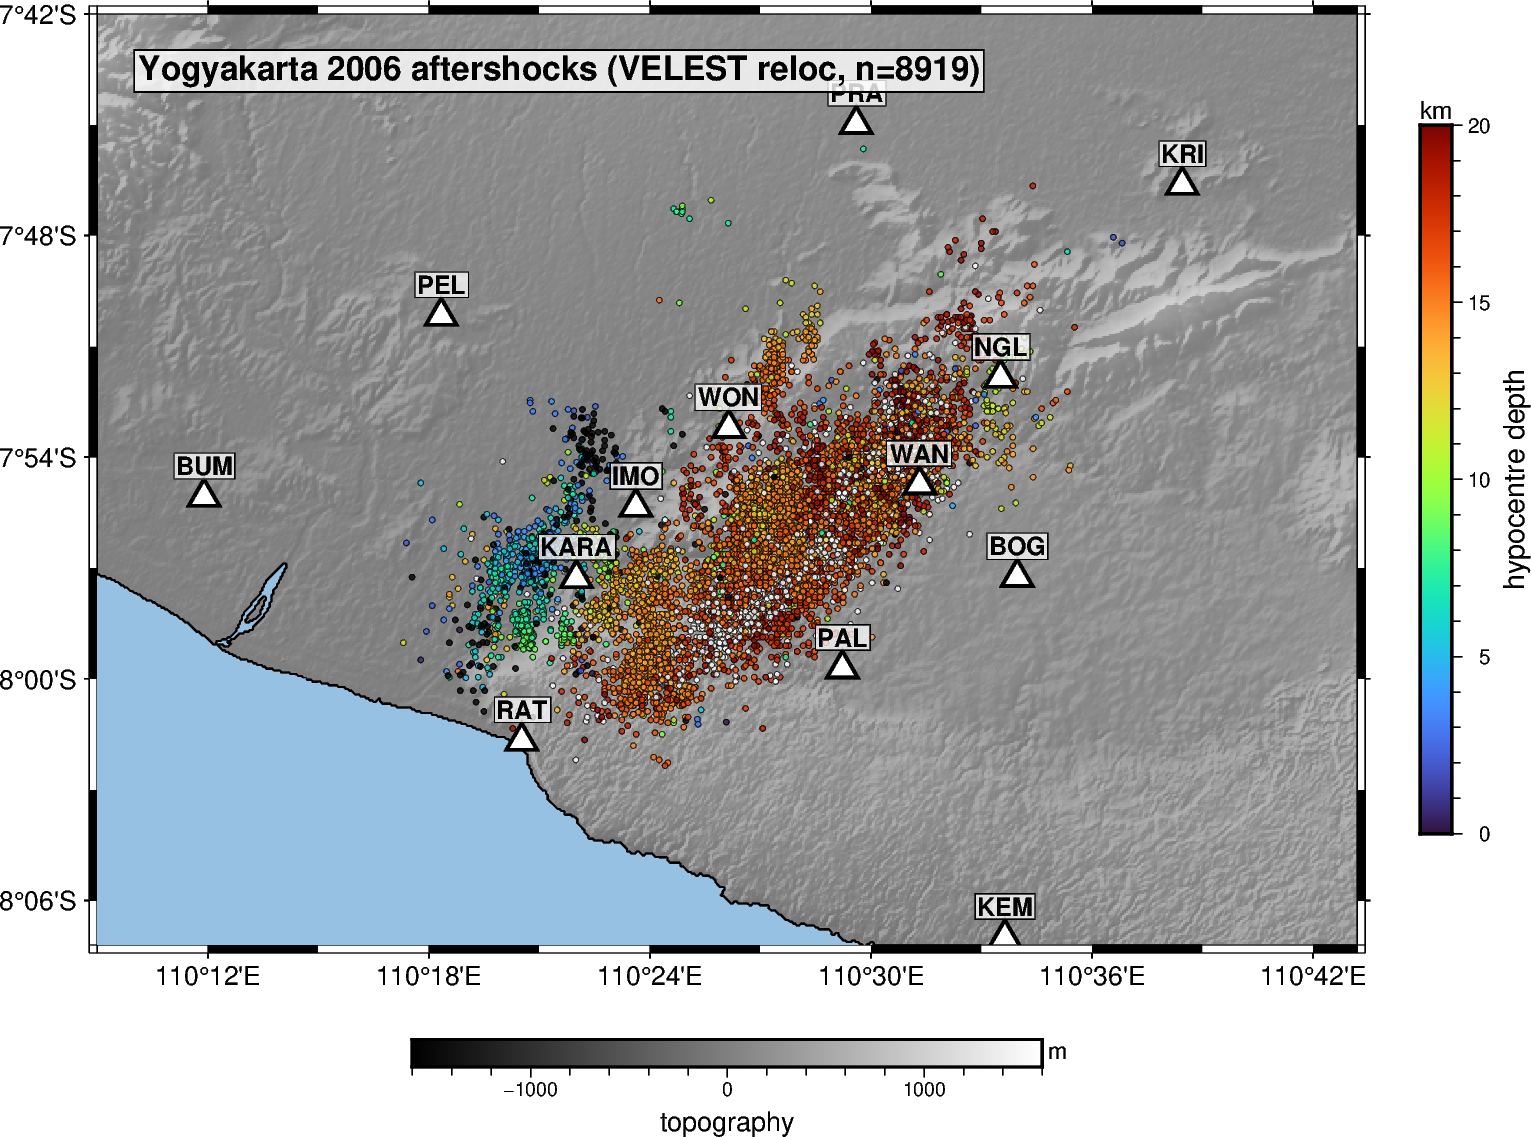
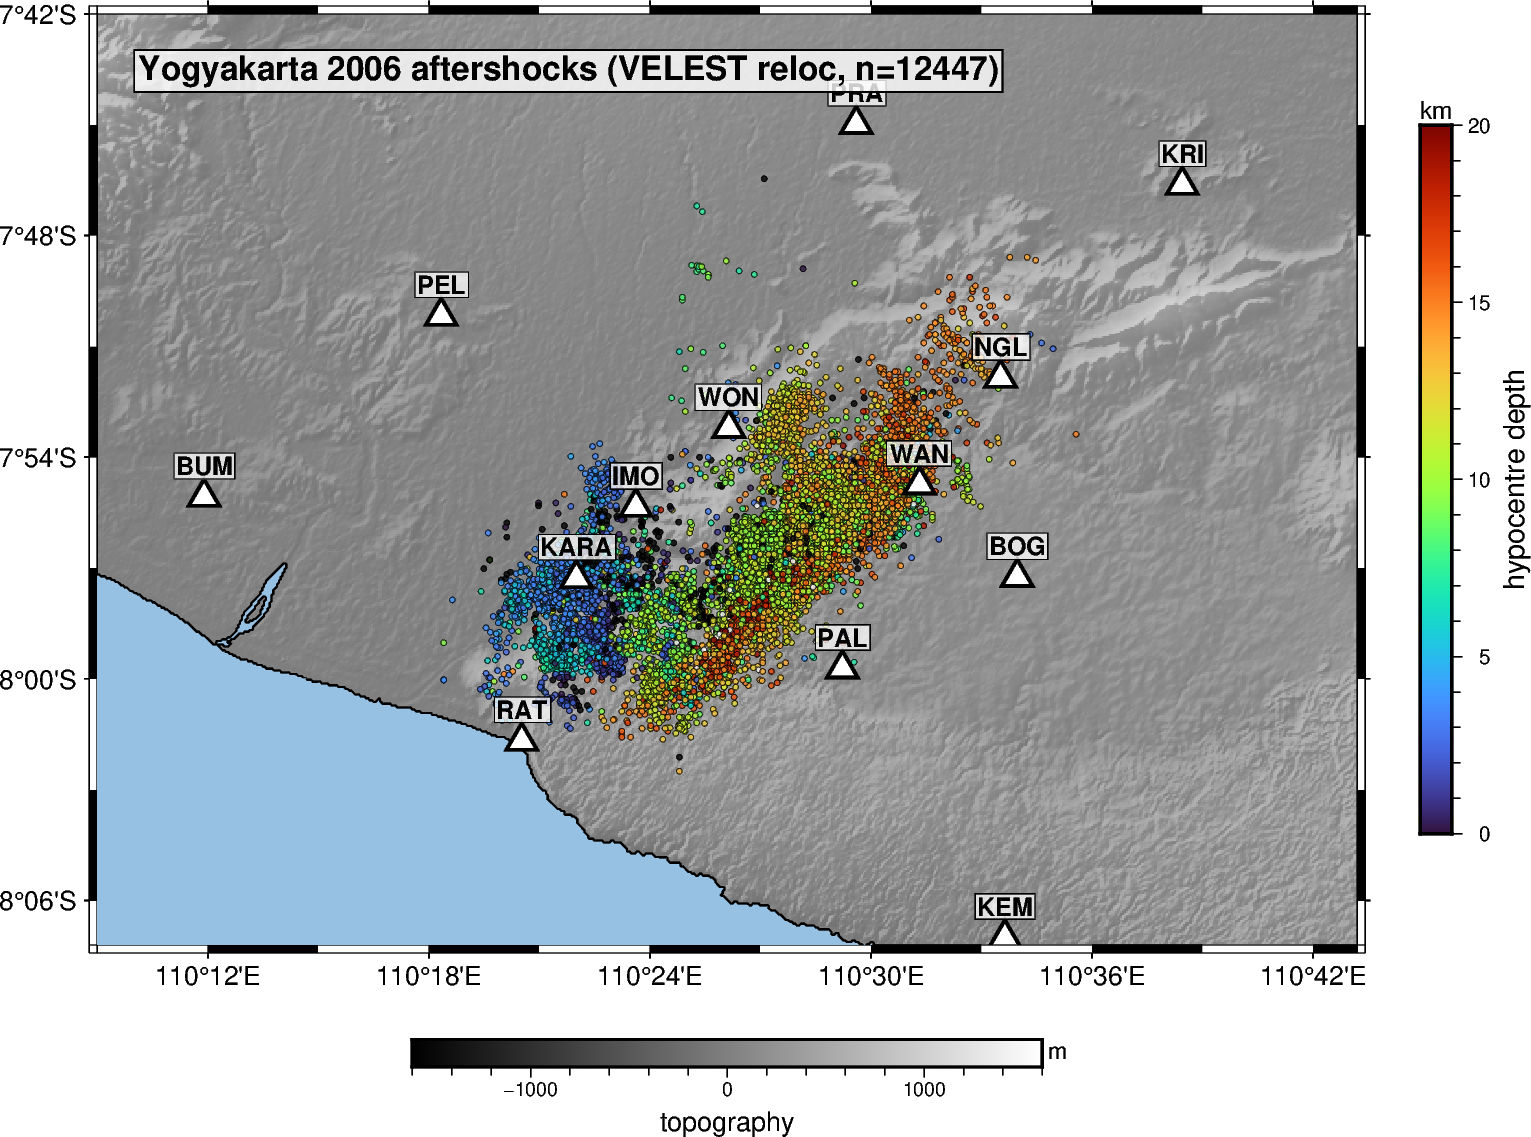
Refine VELEST model (fixed sediment+deep, station corr geology); re-relocate: depths 15->10.5km

Changed region(s): [[0.2763, 0.2155, 0.7061, 0.6772], [0.5833, 0.0308, 0.6754, 0.0923], [0.4298, 0.2155, 0.4605, 0.2463]]

diff --git a/eqt/scripts/interpret_stacorr.py b/eqt/scripts/interpret_stacorr.py
@@ -1,0 +1,72 @@
+#!/usr/bin/env python3
+"""Interpret VELEST station corrections in terms of the Opak-fault geology:
+western stations sit on Merapi sediment (slow, +delay), eastern on limestone
+(fast, -delay). Plots corrections vs longitude and quantifies the W-E contrast.
+"""
+import os, re, json
+import numpy as np, pandas as pd
+import matplotlib; matplotlib.use("Agg"); import matplotlib.pyplot as plt
+
+ROOT = os.path.abspath(os.path.join(os.path.dirname(__file__), ".."))
+OUT = f"{ROOT}/velest/yogya.OUT"
+OPAK_LON = 110.43          # approx Opak-fault longitude in the study area
+
+# our per-period code -> official XN name
+TF2XN = {"TF12":"WON","TF13":"PEL","TF14":"RAT","TF16":"WAN","TF18":"BUM",
+         "TF19":"PAL","TF15a":"NGL","TF10a":"PRA","TF10b":"IMO","TF17":"BOG",
+         "TF11b":"KRI","TF07b":"KEM","TF09b":"KARA"}
+
+def station_lons():
+    per = json.load(open(f"{ROOT}/config/stations_periods.json"))
+    import string
+    lon = {}
+    for code, info in per.items():
+        sites = info.get("sites", [])
+        if len(sites) <= 1:
+            if sites: lon[code] = sites[0]["lon"]
+        else:
+            for suf, s in zip(string.ascii_lowercase, sites):
+                lon[f"{code}{suf}"] = s["lon"]
+    return lon
+
+def main():
+    lines = open(OUT).read().splitlines()
+    i = max(i for i,l in enumerate(lines) if "Adjusted station corrections:" in l)
+    cor = {}
+    for l in lines[i+2:i+8]:
+        t = l.split(); k = 0
+        while k+1 < len(t):
+            try: cor[t[k]] = float(t[k+1]); k += 3
+            except (ValueError, IndexError): break
+    lon = station_lons()
+    rows = []
+    for code, c in cor.items():
+        if code not in lon: continue
+        rows.append({"code": code, "xn": TF2XN.get(code, code), "lon": lon[code],
+                     "stcor": c, "side": "West (sediment)" if lon[code] < OPAK_LON else "East (limestone)"})
+    d = pd.DataFrame(rows).sort_values("lon")
+    w = d[d.side.str.startswith("West")]; e = d[d.side.str.startswith("East")]
+    print("Station P-corrections vs Opak fault:")
+    for _, r in d.iterrows():
+        print(f"  {r.xn:5} ({r.code:6}) lon {r.lon:.3f}  stcor {r.stcor:+.2f} s  [{r.side}]")
+    print(f"\nWest (sediment) mean: {w.stcor.mean():+.2f} s ; East (limestone) mean: {e.stcor.mean():+.2f} s")
+    print(f"W-E contrast: {w.stcor.mean()-e.stcor.mean():+.2f} s")
+
+    fig, ax = plt.subplots(figsize=(11, 6))
+    ax.axvline(OPAK_LON, color="k", ls="--", lw=1.5, label="Opak fault (~110.43°E)")
+    ax.scatter(w.lon, w.stcor, s=140, c="tab:blue", edgecolor="k", zorder=5, label="West: Merapi sediment")
+    ax.scatter(e.lon, e.stcor, s=140, c="tab:red", edgecolor="k", zorder=5, label="East: limestone")
+    for _, r in d.iterrows():
+        ax.annotate(r.xn, (r.lon, r.stcor), xytext=(0, 8), textcoords="offset points",
+                    ha="center", fontsize=9, fontweight="bold")
+    ax.axhline(0, color="gray", lw=0.8)
+    ax.set_xlabel("Longitude (°E)"); ax.set_ylabel("P station correction (s)")
+    ax.set_title("VELEST station corrections vs Opak fault\n"
+                 "West (sediment) = slow / +delay ; East (limestone) = fast / −delay")
+    ax.legend(); ax.grid(alpha=0.3)
+    out = f"{ROOT}/figures/station_corrections_opak.png"
+    plt.tight_layout(); plt.savefig(out, dpi=120)
+    print("wrote", out)
+
+if __name__ == "__main__":
+    main()

diff --git a/eqt/scripts/gen_velest.py b/eqt/scripts/gen_velest.py
@@ -16,11 +16,23 @@ import numpy as np
 ROOT = os.path.abspath(os.path.join(os.path.dirname(__file__), ".."))
 OLAT, OLON = -7.92, 110.44
 VPVS = 1.735
-# starting model: depth(km, top of layer), Vp(km/s), vdamp
-# invert well-sampled shallow crust (damp 1.0); fix poorly-sampled deep layers (damp 999)
-MODEL = [(-2.0,4.00,1.0),(0.0,4.50,1.0),(3.0,5.20,1.0),(6.0,5.70,1.0),
-         (9.0,6.00,1.0),(12.0,6.20,1.0),(16.0,6.40,1.0),
-         (20.0,6.70,999.0),(28.0,7.20,999.0),(40.0,8.00,999.0)]
+# Geologically-constrained model: depth(km, top of layer), Vp(km/s), vdamp.
+#  - SHALLOW sediment FIXED a priori (Merapi volcaniclastics, >700 m base): damp 999.
+#    (lateral W/E sediment-vs-limestone contrast is carried by STATION CORRECTIONS.)
+#  - DEEP crust FIXED to realistic values (removes the earlier 7.16 km/s artifact): damp 999.
+#  - Only the well-sampled MID-CRUST (2-13 km) is inverted (damp 1).
+MODEL = [(-2.0,2.50,999.0),   # near-surface sediment (fixed)
+         ( 0.0,2.90,999.0),   # Merapi sediment (fixed)
+         ( 0.7,4.30,100.0),   # base of ~700 m sediment -> bedrock (lightly damped)
+         ( 2.0,5.20,1.0),     # --- invert mid-crust ---
+         ( 4.0,5.70,1.0),
+         ( 7.0,5.95,1.0),
+         (10.0,6.20,1.0),
+         (13.0,6.40,20.0),    # transition (semi-fixed)
+         (16.0,6.55,999.0),   # --- fixed deep crust ---
+         (22.0,6.80,999.0),
+         (30.0,7.20,999.0),
+         (40.0,8.00,999.0)]
 
 def parse_hyps():
     events = []
@@ -44,6 +56,11 @@ def parse_hyps():
             events.append(dict(ot=ot,lat=lat,lon=lon,dep=dep,gap=gap,rms=rms,phs=phs))
     return events
 
+# station elevations (m) by our code (from XN metadata; unmapped early sites approx)
+ELEV = {"TF18":44,"TF13":130,"TF14":50,"TF16":230,"TF19":175,"TF12":120,
+        "TF15a":260,"TF10a":172,"TF10b":73,"TF17":200,"TF11b":200,"TF07b":120,
+        "TF09b":55,"TF07a":110,"TF09a":60,"TF11a":200,"TF15b":172}
+
 def write_stations(path):
     periods=json.load(open(f"{ROOT}/config/stations_periods.json"))
     lines=["(a6,f7.4,a1,1x,f8.4,a1,1x,i4,1x,i1,1x,i3,1x,f5.2,2x,f5.2)"]
@@ -53,7 +70,8 @@ def write_stations(path):
         la=s["lat"]; lo=s["lon"]; ns="N"; ew="E"
         if la<0: ns="S"; la=-la
         if lo<0: ew="W"; lo=-lo
-        lines.append(f"{code:<6}{la:7.4f}{ns} {lo:8.4f}{ew} {0:4d} {1:1d} {idx:3d} {0.0:5.2f}  {0.0:5.2f}")
+        elev=ELEV.get(code,120)
+        lines.append(f"{code:<6}{la:7.4f}{ns} {lo:8.4f}{ew} {elev:4d} {1:1d} {idx:3d} {0.0:5.2f}  {0.0:5.2f}")
         idx+=1; codes.append(code)
     for code,info in periods.items():
         sites=info.get("sites",[])
@@ -113,7 +131,7 @@ Yogya 2006 EQT minimum-1D inversion
 ***   othet   xythet    zthet    vthet   stathet
       0.01    0.01      0.01     1.00     1.00
 *** nsinv   nshcor   nshfix     iuseelev    iusestacorr
-       1       0       0           0            1
+       1       0       0           1            1
 *** iturbo    icnvout   istaout   ismpout
        1         1         1        0
 *** irayout   idrvout   ialeout   idspout   irflout   irfrout   iresout

diff --git a/eqt/scripts/parse_velest.py b/eqt/scripts/parse_velest.py
@@ -44,9 +44,9 @@ for l in lines[idx+2:idx+8]:
 print(f"\nstation P-corrections: {len(cor)} stations, "
       f"range {min(cor.values()):+.2f}..{max(cor.values()):+.2f} s")
 
-# ---- starting model (from gen_velest) ----
-START = [(-2.0,4.00),(0.0,4.50),(3.0,5.20),(6.0,5.70),(9.0,6.00),(12.0,6.20),
-         (16.0,6.40),(20.0,6.70),(28.0,7.20),(40.0,8.00)]
+# ---- starting model (from gen_velest, geologically-constrained) ----
+START = [(-2.0,2.50),(0.0,2.90),(0.7,4.30),(2.0,5.20),(4.0,5.70),(7.0,5.95),
+         (10.0,6.20),(13.0,6.40),(16.0,6.55),(22.0,6.80),(30.0,7.20),(40.0,8.00)]
 
 def step(mod):
     z=[]; v=[]
